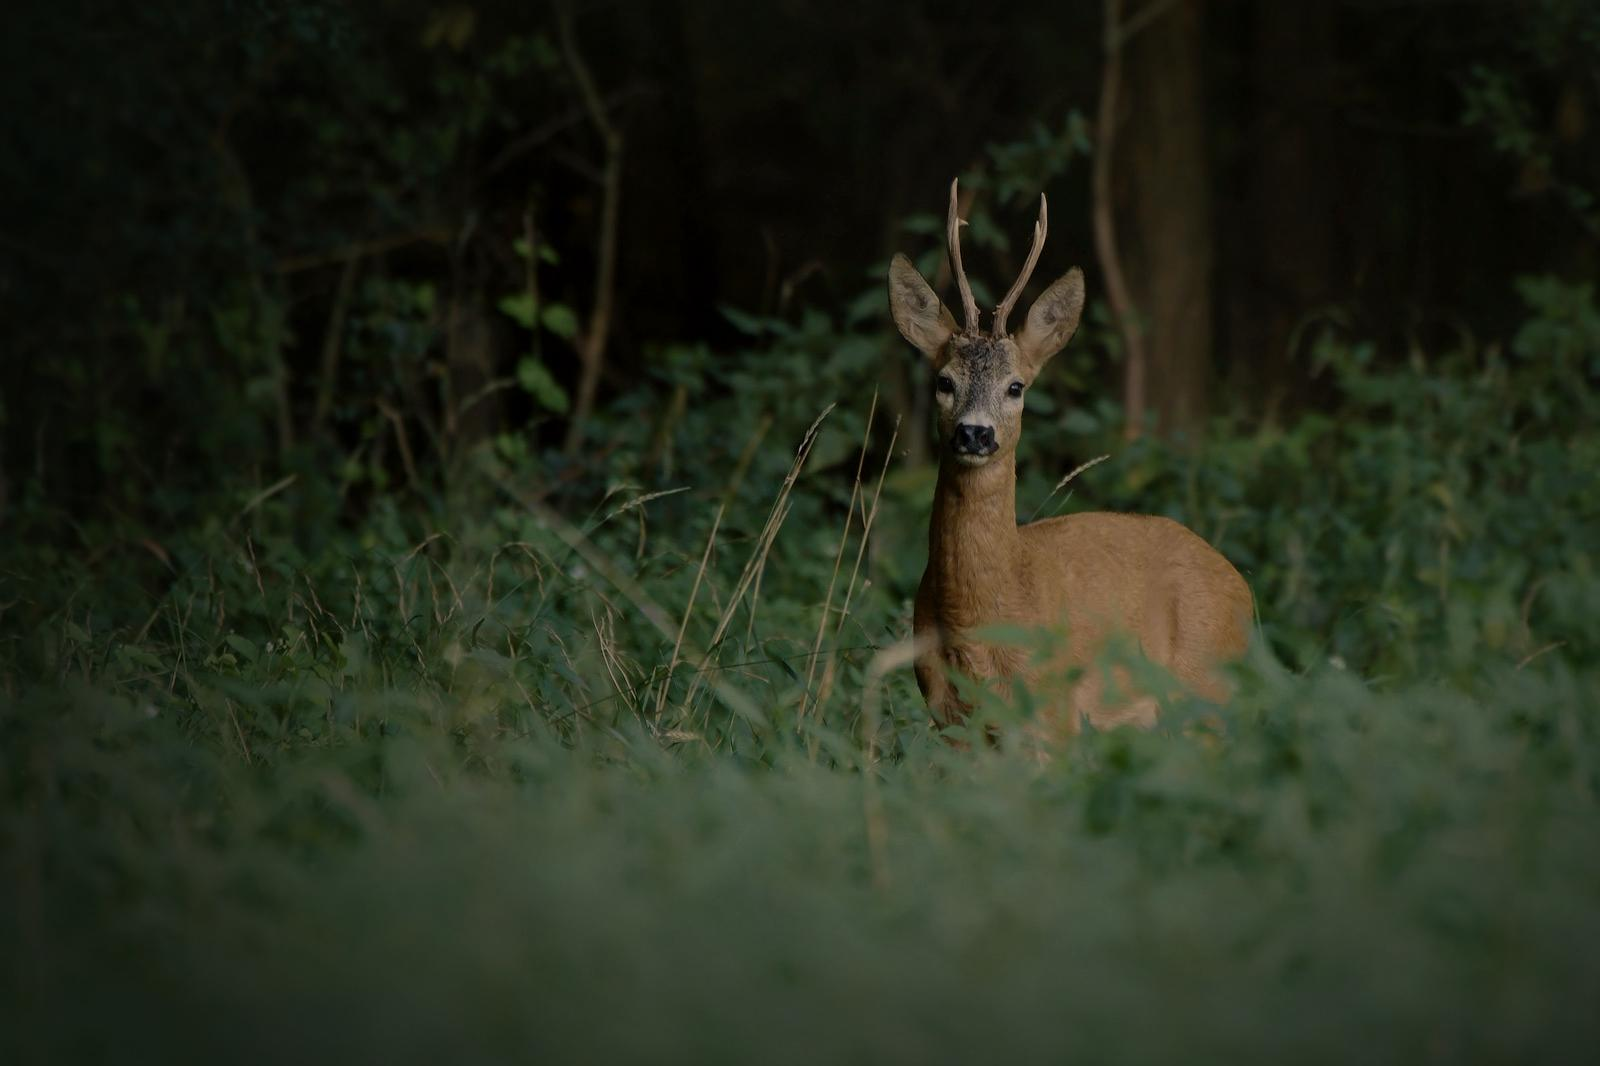
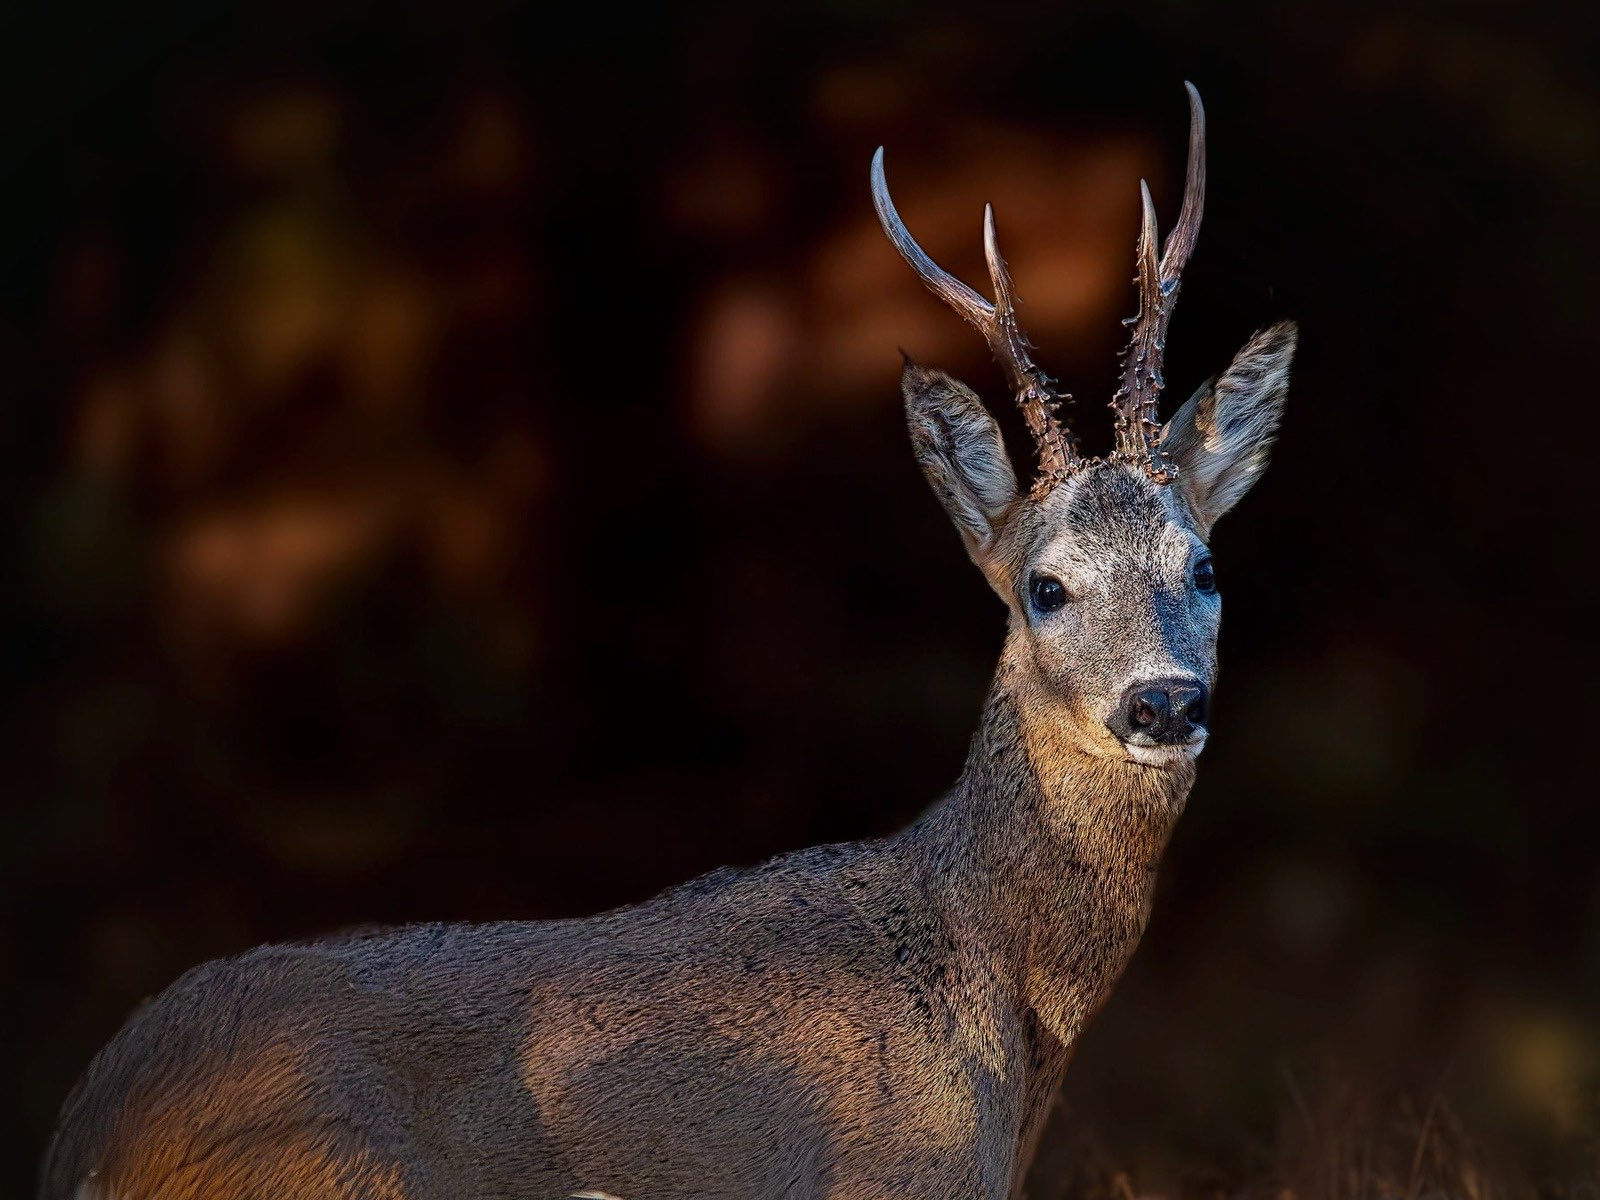
Tierfotos: Rehbock nah, röhrender Hirsch enger, Damhirsch frontal im Nebel

diff --git a/images/stockfotos-quellen.md b/images/stockfotos-quellen.md
@@ -1,7 +1,7 @@
 | Datei | Motiv | Quelle-URL | Fotograf | Lizenz |
 |---|---|---|---|---|
-| tier-rehwild.jpg | Reh (Ricke) im Gegenlicht am Waldrand, dunstig | https://www.pexels.com/photo/deer-in-natural-habitat-during-golden-hour-37329309/ | Sergey Antonov | Pexels License (frei nutzbar, keine Namensnennung nötig) |
+| tier-rehwild.jpg | Rehbock mit Gehörn im Streiflicht, dunkler Wald (zugeschnitten 4:3, abgedunkelt) | https://www.pexels.com/photo/majestic-deer-in-sunlit-forest-clearing-33855012/ | Jesus Esteban San Jose | Pexels License (frei nutzbar, keine Namensnennung nötig) |
 | tier-schwarzwild.jpg | Wildschwein im Wald, Frischlinge im Hintergrund | https://unsplash.com/photos/21iYB5pAtGg | Patrick Pahlke | Unsplash License (frei nutzbar, keine Namensnennung nötig) |
-| tier-rotwild.jpg | Röhrender Rothirsch im dunklen Herbstwald, Gegenlicht | https://www.pexels.com/photo/majestic-deer-roaring-in-autumn-forest-40910876/ | Guillaume Boulanger | Pexels License (frei nutzbar, keine Namensnennung nötig) |
-| tier-damwild.jpg | Damhirsch mit Schaufelgeweih in dunklem Wald, Dämmerung | https://www.pexels.com/photo/a-red-deer-20733458/ | Luca Valli | Pexels License (frei nutzbar, keine Namensnennung nötig) |
+| tier-rotwild.jpg | Röhrender Rothirsch nah, Kopf und Geweih (zugeschnitten 4:3, abgedunkelt) | https://www.pexels.com/photo/majestic-red-deer-stag-roaring-in-autumn-forest-39167659/ | Jesus Esteban San Jose | Pexels License (frei nutzbar, keine Namensnennung nötig) |
+| tier-damwild.jpg | Damhirsch mit Schaufelgeweih, Blick zur Kamera, dunkler Nebelwald (zugeschnitten 4:3) | https://www.pexels.com/photo/a-deer-in-the-forest-8954101/ | Dylan Leagh | Pexels License (frei nutzbar, keine Namensnennung nötig) |
 | gewuerze-stock.jpg | Gewürze auf Löffeln, dunkles Holz, Flatlay | https://www.pexels.com/photo/spices-on-tablespoons-4589169/ | ArtHouse Studio | Pexels License (frei nutzbar, keine Namensnennung nötig) |
